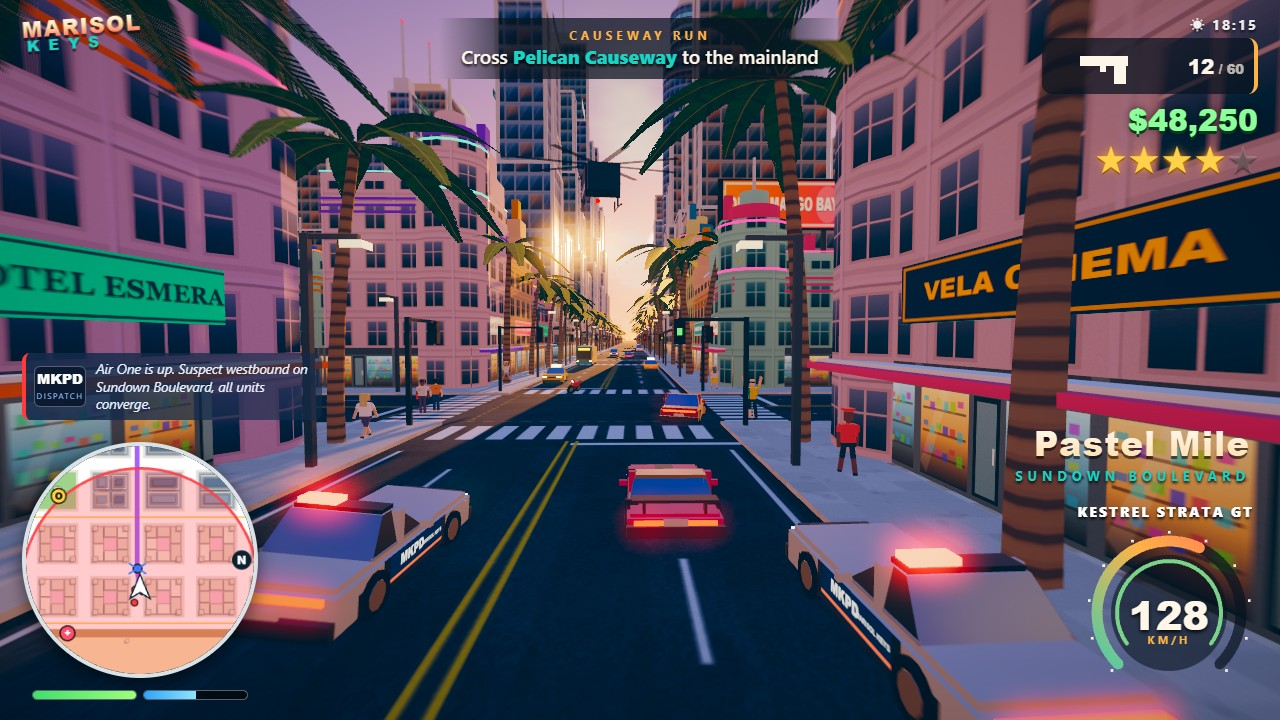
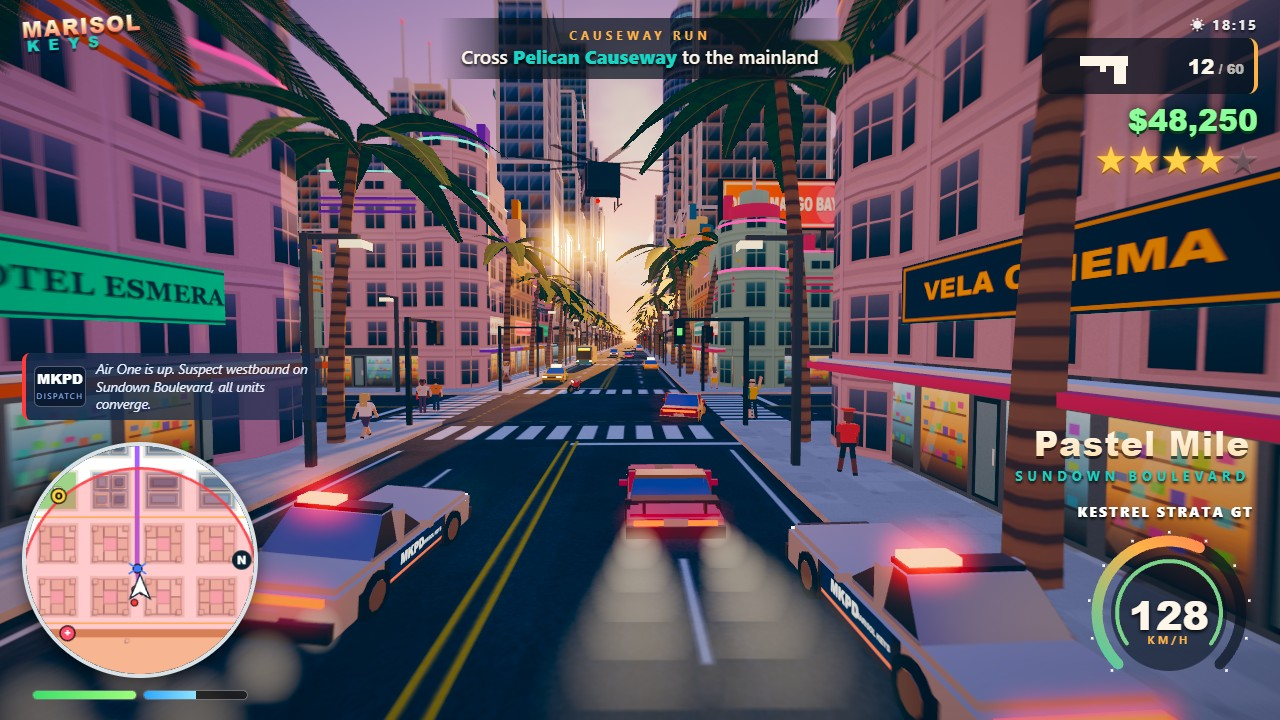
Cover: tyre smoke trailing the chase

Changed region(s): [[0.4375, 0.7028, 0.7188, 1.0], [0.0, 0.8556, 0.2812, 1.0]]

diff --git a/game/src/shots/shotScenes.js b/game/src/shots/shotScenes.js
@@ -105,6 +105,17 @@ export const SCENES = {
       h.mesh.position.copy(h.pos);
       game.wanted.zone = { x: p.pos.x, z: p.pos.z, r: game.wanted.zoneRadius() };
       game.wanted.seen = true;
+      // tyre smoke kicked up behind the racing cars
+      for (const v of [p, ...units.slice(0, 2)]) {
+        const f = v.forward(), r = v.right();
+        for (let k = 0; k < 7; k++) {
+          for (const s of [-1, 1]) {
+            game.fx.particles.smoke.emit({ x: v.pos.x - f.x * (v.spec.len * 0.5 + k * 0.9) + r.x * s * 0.8, y: 0.35 + k * 0.05, z: v.pos.z - f.z * (v.spec.len * 0.5 + k * 0.9) + r.z * s * 0.8,
+              vy: 0.4, life: 1.4, size: 0.7 + k * 0.25, grow: 0, color: '#e8dccb', alpha: 0.26 - k * 0.03 });
+          }
+        }
+      }
+      game.fx.particles.update(0.05);
       game.hud.showDistrict({ name: 'Pastel Mile', sub: 'SUNDOWN BOULEVARD' });
       game.dispatch.show('Air One is up. Suspect westbound on Sundown Boulevard, all units converge.');
       return { pos: new THREE.Vector3(p.pos.x + 12.5, 4.3, p.pos.z + 0.9), look: new THREE.Vector3(p.pos.x - 30, 2.6, p.pos.z + 0.2) };
